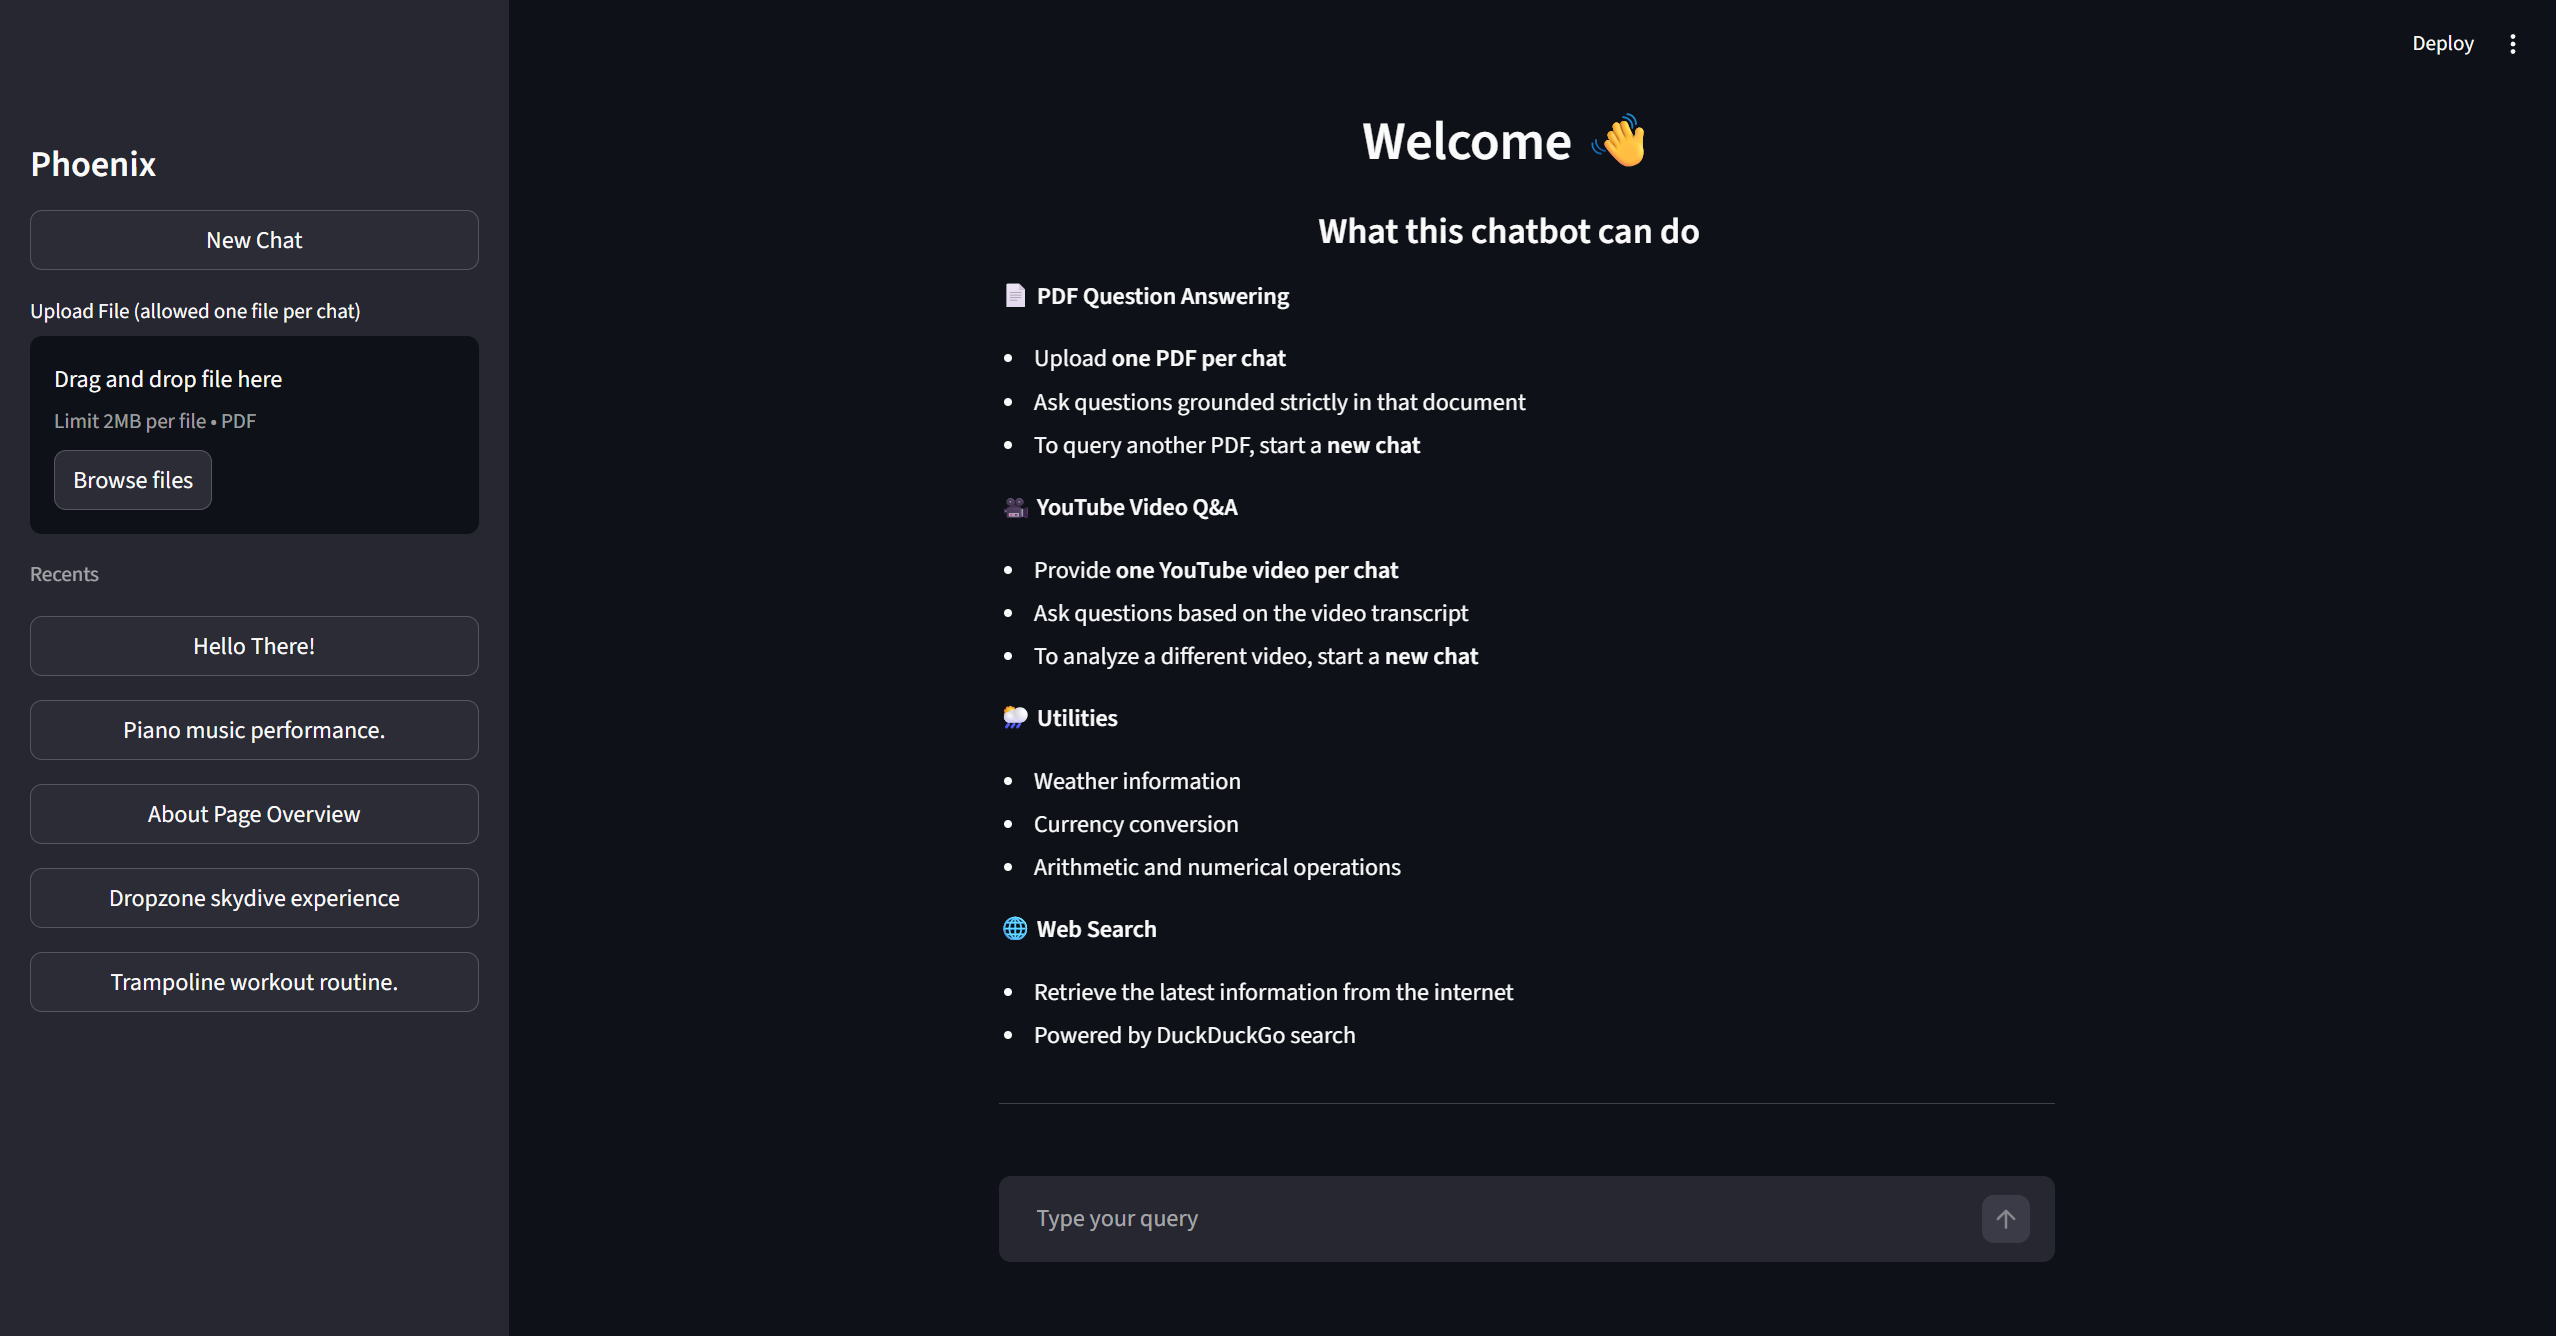
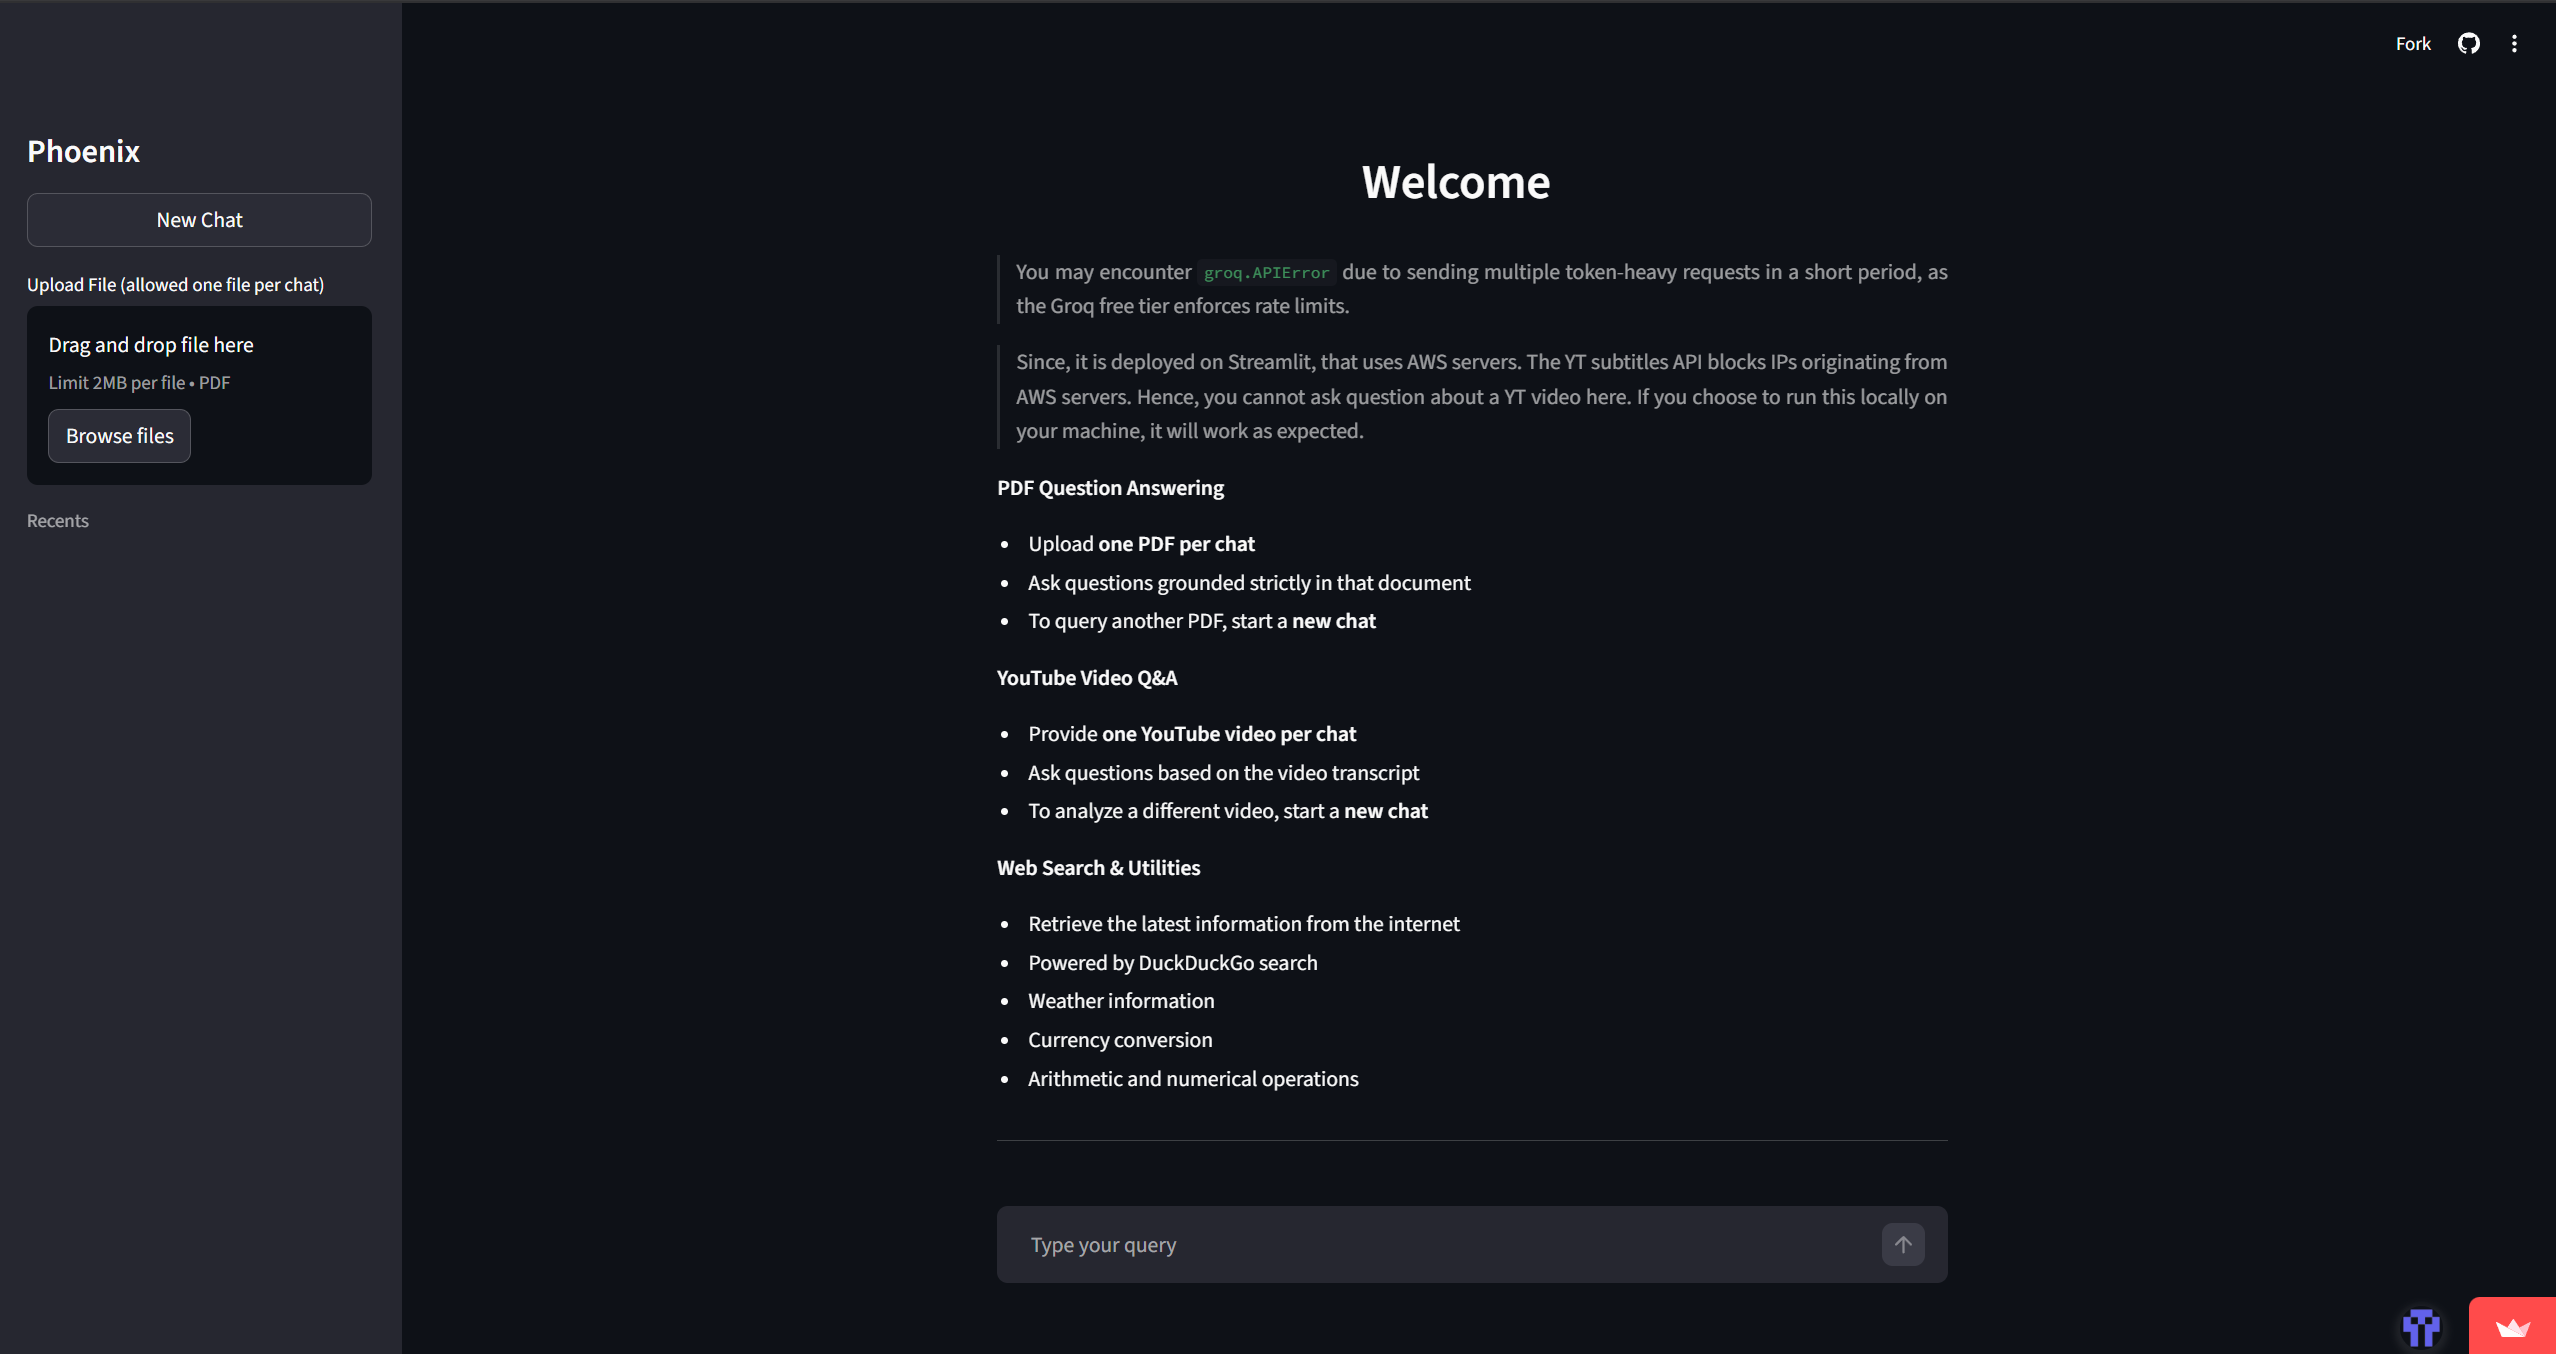
Update UI image

diff --git a/README.md b/README.md
@@ -63,10 +63,6 @@ Four production-ready tools with streaming output:
 * Python 3.10+
 * [uv](https://github.com/astral-sh/uv) package manager
 * PostgreSQL 12+ installed and running
-* API keys for:
-  * OpenAI
-  * LangSmith (for observability)
-  * ExchangeRate API
 
 ### Installation
 
@@ -108,8 +104,8 @@ Four production-ready tools with streaming output:
    Create a `.env` file in the root directory:
 
    ```env
-   # OpenAI
-   OPENAI_API_KEY=your_openai_key
+   # Groq
+   GROQ_API_KEY=your_groq_key
 
    # LangSmith Observability
    LANGSMITH_API_KEY=your_langsmith_key
@@ -119,6 +115,9 @@ Four production-ready tools with streaming output:
 
    # ExchangeRate API
    EXCHANGE_API_KEY=your_exchange_rate_api_key
+
+   # Hugging Face Token
+   HF_TOKEN = "your_hugging_face_token"
 
    # PostgreSQL Database
    DB_URL="postgresql://phoenix_user:your_password@localhost:5432/phoenix_db"
@@ -135,13 +134,13 @@ Four production-ready tools with streaming output:
 
 Phoenix is deployed on **Streamlit Cloud**.
 
-| Component     | Service                               |
-| ------------- | --------------------------------------|
-| Hosting       | Streamlit Cloud                       |
-| LLM Inference | Groq (`gpt-oss-120b`,`gpt-oss-20b`)   |
-| Embeddings    | HuggingFace (`all-MiniLM-L6-v2`)      |
-| Database      | Neon DB (Serverless Postgres)         |
-| DB Reset      | GitHub Actions (every 30 min)         |
+| Component     | Service                                                    |
+| ------------- | ---------------------------------------------------------- |
+| Hosting       | Streamlit Cloud                                            |
+| LLM Inference | Groq (`gpt-oss-120b`,`gpt-oss-20b`)                        |
+| Embeddings    | HuggingFace (`all-MiniLM-L6-v2`)                           |
+| Database      | Neon DB (Serverless Postgres)                              |
+| DB Reset      | GitHub Actions (every day (disabled due to low usage now)) |
 
 ## UI
 
